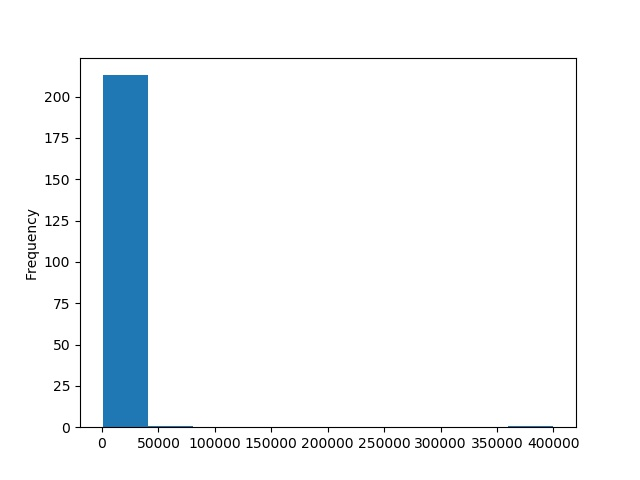
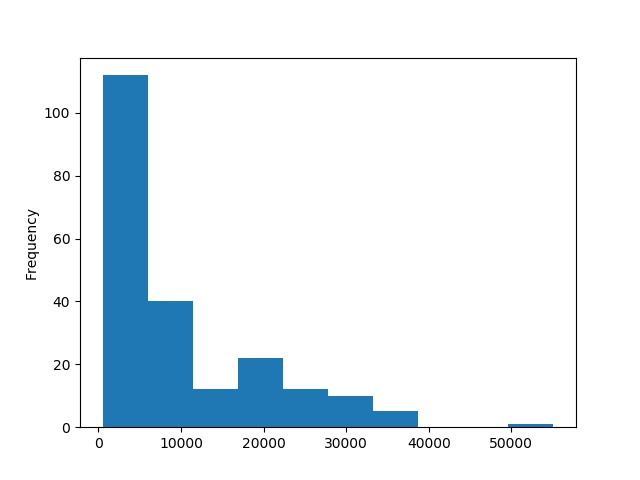
finished Week_2 EDA bonus

diff --git a/Homework/Week_2/eda.py b/Homework/Week_2/eda.py
@@ -2,6 +2,7 @@ import pandas as pd
 import csv
 import re
 import json
+import seaborn as sns
 
 
 # global variables
@@ -12,6 +13,8 @@ COLS = ["Country",
         "Pop. Density (per sq. mi.)",
         "Infant mortality (per 1000 births)",
         "GDP ($ per capita) dollars"]
+# the highest GDP is around 170000
+GDP_MAX = 180000
 
 
 def get_number(s):
@@ -30,18 +33,22 @@ def load(filename):
             # take out unusable rows
             flag = 1
             for col in COLS:
+                # missing or unknown data
                 if row[col] == "" or row[col] == "unknown":
                     flag = 0
                     break
+            # preprocess data and store data into a list
             if flag:
-                # preprocess data and store data into a list
                 # strip() strips spaces on both ends
                 # get_number() extracts number
-                data.append([row[COLS[0]].strip(),
-                             row[COLS[1]].strip(),
-                             get_number(row[COLS[2]]),
-                             get_number(row[COLS[3]]),
-                             int(get_number(row[COLS[4]]))])
+                # take out rows with impossible GDP
+                gdp = int(get_number(row[COLS[4]]))
+                if gdp < GDP_MAX:
+                    data.append([row[COLS[0]].strip(),
+                                 row[COLS[1]].strip(),
+                                 get_number(row[COLS[2]]),
+                                 get_number(row[COLS[3]]),
+                                 gdp])
     # return data list
     return data
 
@@ -101,4 +108,8 @@ if __name__ == "__main__":
 
     # dict > .json file
     with open(OUTPUT_JSON, "w") as file:
-        json.dump(dict, file, indent=4)
+        json.dump(dict, file, indent = 4)
+
+    # a scatterplot incorporating both the GDP and Infant Mortality Data
+    scatter = sns.relplot(x = COLS[4], y = COLS[3], hue = COLS[1], data = dataframe)
+    scatter.savefig("scatter.jpg")

diff --git a/Homework/Week_2/README.md b/Homework/Week_2/README.md
@@ -1,6 +1,7 @@
 # Week_2: Exploratory Data Analysis
 
-Data analysis with pandas library.
+ - Data analysis with pandas library.
+ - Ploting with seaborn library.
 
 ## 1. Code
 
@@ -39,6 +40,14 @@ Data analysis with pandas library.
 
  - Print the dataframe in this .json file.
  - Json format.
+ 
+### scatter.jpg
+
+ - A scatter plot.
+ - Each dot is an observation (country).
+ - Colored according to each region. 
+ - X-axis represents GDP.
+ - Y-axis represents Infant Mortality.
 
 ## 4. README.md
 
